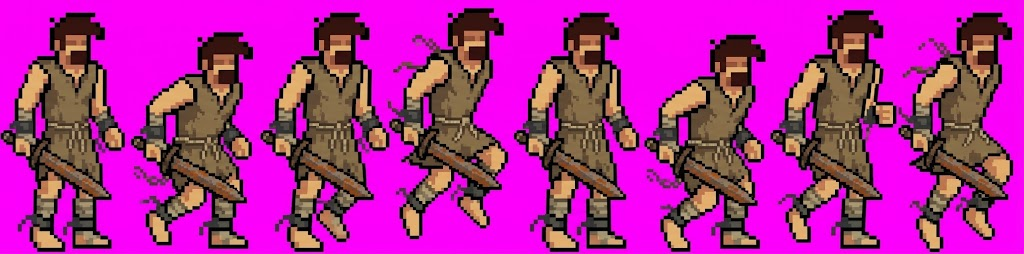
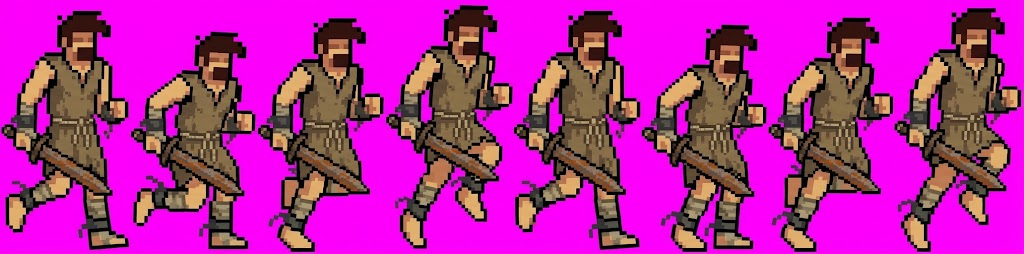
Correr con espada: tira nueva con la carrera más natural

diff --git a/herramientas/sprites/tira_ia_a_hoja.py b/herramientas/sprites/tira_ia_a_hoja.py
@@ -182,7 +182,7 @@ def main() -> None:
     # Eje común: centro de los pies del primer cuadro, o su torso si se mueven.
     pies = np.where(reducidos[0][-(FILAS_PIES + 24):, :, 3].max(axis=0) > 0)[0]
     eje_x = centro_torso(reducidos[0]) if opciones.movimiento else (int(pies.min()) + int(pies.max())) // 2
-    fila_base = int(np.where(reducidos[0][..., 3].max(axis=1) > 0)[0].max())
+    fila_base = max(int(np.where(c[..., 3].max(axis=1) > 0)[0].max()) for c in reducidos)
 
     hoja = Image.new("RGBA", (ANCHO_CUADRO * opciones.cuadros, ALTO_CUADRO), (0, 0, 0, 0))
     for i, cuadro in enumerate(reducidos):
